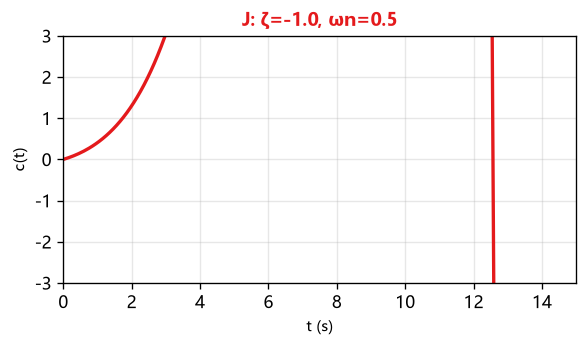
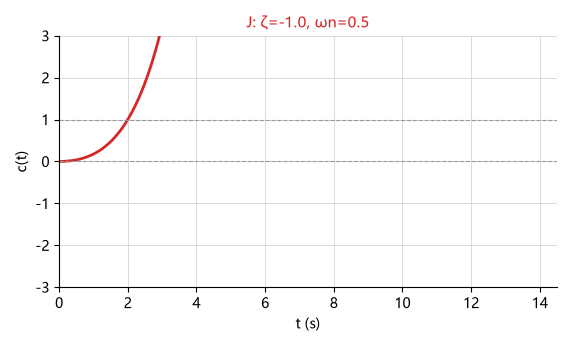
fix: 全面配图检查——修复3张自绘图（响应J竖直伪迹/相关变化率标签截断重叠/例6-5图题裁切）

diff --git a/AGENTS.md b/AGENTS.md
@@ -197,3 +197,5 @@
 **2026-08-27（配图检查轮 2——jpg 冗余残留）**：同样方法双向核对，**断链 0、非png 引用 0、105 引用 ↔ 105 png 一一命中**，但发现 `附件\` 又出现 **14 个未跟踪 .jpg**（自绘图脚本 jpg 源图 + png 成品，jpg 残留），均为已有 png 的同名冗余、无任何引用，违反「附件统一 png」规范。用户确认后删除 14 个 jpg，附件回到 **105 png / 0 非png**，工作区干净（未跟踪文件，无 git 历史改动）。**经验（复用 08-27）**：图片扫描用 `!?\[\[([^\]]+)\]\]` 取内文后 `-replace '\\\|','|' -split '\|'` 取首段再 `-replace '\\$',''`，才能正确处理表格内 `\|` 转义；自绘图脚本应只留 png 成品、jpg 源图不入库。
 
 **2026-08-27（配图检查轮 3——质量维度）**：对 105 png 用 System.Drawing 做技术扫描（尺寸/宽高比/体积）——无空白/损坏/低清；尺寸 508×408~2501×929 全可读、无 <3KB 文件。**尺寸一致性**：抽查 23 张 AR≥2 宽图，仅 3 张标 |430（应按规范 |520）——`自控-死区双积分结构图`(2.81)/`自控-主导极点偶极子`(2.61)/`自控-教材例6-3阶跃响应曲线`(2.24)，已改 |520；其余宽图均 ≥520/560/620/650/700 合规。**视觉抽检 10 张**（自控 Bode/描述函数/方框图、高数二维曲线/3D 二次曲面、线代三平面、宽屏多联图）均渲染清晰、标注可读、无重叠/空白。结论：配图质量良好，仅 3 处尺寸参数修正。**经验**：配图质量检查三层——① System.Drawing 读像素判空白/极宽；② 宽图（AR≥2）核对 |N 是否 ≥520；③ 按类别抽检渲染（3D 曲面/多联图为高风险项）。
+
+**2026-08-27（配图全面检查 + 修复 3 张）**：全量 105 图（90 张子代理并行读图 + 15 张主代理复核全覆盖）——技术层 0 空白/损坏/低清；尺寸一致性上轮已修；视觉层 **103 正常、3 待修**：① `自控-响应J`（ζ=−1 单调发散，t≈12.7 出现贯穿 −3~3 的竖直红伪迹）；② `高数-相关变化率`（底端红标注 `x(以 v…` 截断且与 `地面` 重叠）；③ `自控-教材例6-5渐近幅频特性`（底部蓝色图题被边裁切）。**修复**（matplotlib/PIL 重建，均 read_image 自检通过）：① 响应J 用 numpy/scipy 算步响应，越界点置 NaN 让曲线干净止于顶部，消除竖直伪迹；② 相关变化率 重建梯子滑动图，底端标注改完整 `x 以速度 v 增大` 并下移避开 `地面`；③ 例6-5 用 PIL 裁掉被裁切图题（539 行以下）、在图身下方重排完整图题 `图6-35 例6-5 系统开环对数幅频渐近特性`，保留图身。三图 AR 均 <2，引用尺寸 |430/|280 不变。**经验**：① 全量图检用「子代理按批并行读图（15 张/批）+ 主代理复核子代理未返回批次」；② matplotlib 画发散响应曲线务必「越界置 NaN」否则两点间大跳变会画竖直贯穿伪迹；③ 重建自绘图可用 matplotlib（matplotlib 3.11 + MSYH 中文字体）+ read_image 自检；④ 图题被裁切（下半字超出画幅）无法靠补白恢复，用 Pillow「裁剪掉损坏图题 + 图身下方重排完整图题」。
